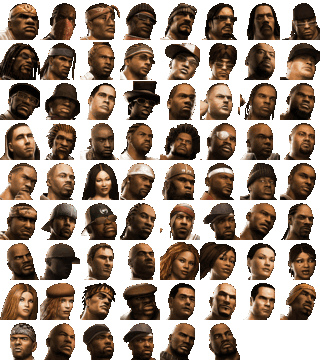
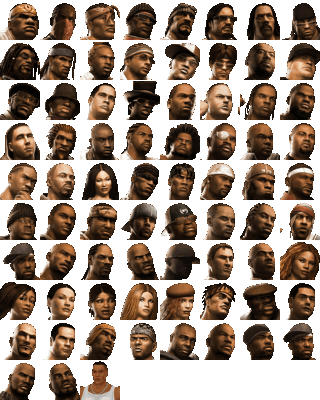
Expose all 75 fighters in the default menu with the original replacement cards

diff --git a/port/menu/hero_portrait.py b/port/menu/hero_portrait.py
@@ -1,0 +1,62 @@
+"""Render the unlisted E3 Hero's selector portrait from his packed retail mesh."""
+import gzip
+from io import BytesIO
+import json
+import math
+import struct
+
+from PIL import Image, ImageDraw, ImageFont
+
+
+def export_hero(root, output):
+    data = gzip.decompress((root / "port/render/fighters/V2IP_999A.skin.gz").read_bytes())
+    meta_end = 8 + struct.unpack_from("<I", data, 4)[0]
+    mesh = json.loads(data[8:meta_end])
+    points = [struct.unpack_from("<8f", data, meta_end + i * 52) for i in range(mesh["vertices"])]
+    indices = struct.unpack_from(f"<{mesh['indices']}H", data, meta_end + len(points) * 52)
+    # Frame the head and chest on the same 256 x 336 transparent canvas as the retail portraits.
+    scale = 47
+    top = max(p[1] for p in points)
+    angle = math.radians(-12)
+    cosine, sine = math.cos(angle), math.sin(angle)
+    projected = [(128 + scale * (x * cosine + z * sine), 8 + (top - y) * scale,
+                  z * cosine - x * sine, u, v, 0.82 + 0.18 * max(0, ny * 0.5 + nz * 0.85))
+                 for x, y, z, nx, ny, nz, u, v in points]
+    portrait = Image.new("RGBA", (256, 336))
+    pixels = portrait.load()
+    depths = [-math.inf] * (256 * 336)
+    for batch in mesh["batches"]:
+        offset, size = mesh["textures"][batch["shape"]]
+        texture = Image.open(BytesIO(data[meta_end + offset:meta_end + offset + size])).convert("RGBA")
+        texels = texture.load()
+        for i in range(batch["first"], batch["first"] + batch["count"], 3):
+            a, b, c = (projected[j] for j in indices[i:i + 3])
+            x0, y0 = a[:2]
+            ux, uy = b[0] - x0, b[1] - y0
+            vx, vy = c[0] - x0, c[1] - y0
+            area = ux * vy - uy * vx
+            if abs(area) < 1e-8:
+                continue
+            for y in range(max(0, math.floor(min(y0, b[1], c[1]))), min(336, math.ceil(max(y0, b[1], c[1])))):
+                for x in range(max(0, math.floor(min(x0, b[0], c[0]))), min(256, math.ceil(max(x0, b[0], c[0])))):
+                    dx, dy = x + 0.5 - x0, y + 0.5 - y0
+                    w1, w2 = (dx * vy - dy * vx) / area, (ux * dy - uy * dx) / area
+                    w0 = 1 - w1 - w2
+                    if min(w0, w1, w2) < 0:
+                        continue
+                    z, u, v, light = (w0 * a[k] + w1 * b[k] + w2 * c[k] for k in range(2, 6))
+                    at = y * 256 + x
+                    if z <= depths[at]:
+                        continue
+                    r, g, bval, alpha = texels[min(texture.width - 1, max(0, int(u * texture.width))),
+                                              min(texture.height - 1, max(0, int(v * texture.height)))]
+                    if not alpha:
+                        continue
+                    depths[at] = z
+                    pixels[x, y] = (round(r * light), round(g * light), round(bval * light), 255)
+    portrait.crop((0, 0, 256, 256)).save(output / "141-h.png")
+    portrait.crop((0, 256, 256, 336)).save(output / "141-c.png")
+    name = Image.new("RGBA", (208, 100))
+    font = ImageFont.truetype(str(root / "port/hud/names.ttf"), 42)
+    ImageDraw.Draw(name).text((8, 25), "HERO", font=font, fill="#f3e2bd", stroke_width=2, stroke_fill="#30271f")
+    name.save(output / "141-n.png")

diff --git a/port/menu/extract.py b/port/menu/extract.py
@@ -115,16 +115,19 @@ def export(iso, output: Path):
         stats = {f["handle"].lower(): f for f in combat}
         roster = []
         for ident, record in sorted(by_id.items()):
-            lettering, portrait = f"screens/match/3_fighters/l_ML_{ident}_2p.big", f"screens/match/3_fighters/p_ML_{ident + 1}_2p.big"
-            if not (source.has(lettering) and source.has(portrait)):
-                continue
-            name_png = next(iter(source.pictures(lettering).values()))
-            pieces = list(source.pictures(portrait).values())
-            head = next(p for p in pieces if size(p) == (256, 256))
-            chest = next(p for p in pieces if size(p) == (256, 80))
-            write(output / f"fighters/{ident}-n.png", name_png)
-            write(output / f"fighters/{ident}-h.png", head)
-            write(output / f"fighters/{ident}-c.png", chest)
+            if record["model"] == "V2IP_999A":
+                from hero_portrait import export_hero
+                export_hero(ROOT, output / "fighters")
+            else:
+                # The four late roster replacements kept the outgoing fighters' XML IDs.
+                # Their own front-end lettering and portraits use separate loading-card IDs.
+                art_id = {"Teck": 85, "Erick Sermon": 91, "O.E.": 92, "Santos": 93}.get(record["name"], ident)
+                lettering = f"screens/match/3_fighters/l_ML_{art_id}_2p.big"
+                portrait = f"screens/match/3_fighters/p_ML_{art_id + 1}_2p.big"
+                write(output / f"fighters/{ident}-n.png", next(iter(source.pictures(lettering).values())))
+                pieces = list(source.pictures(portrait).values())
+                write(output / f"fighters/{ident}-h.png", next(p for p in pieces if size(p) == (256, 256)))
+                write(output / f"fighters/{ident}-c.png", next(p for p in pieces if size(p) == (256, 80)))
             c = stats.get(record["handle"].lower())
             roster.append({"id": ident, "handle": record["handle"], "name": record["name"], "model": record["model"],
                            "stats": c["stats"] if c else None, "styles": c["styles"] if c else []})
